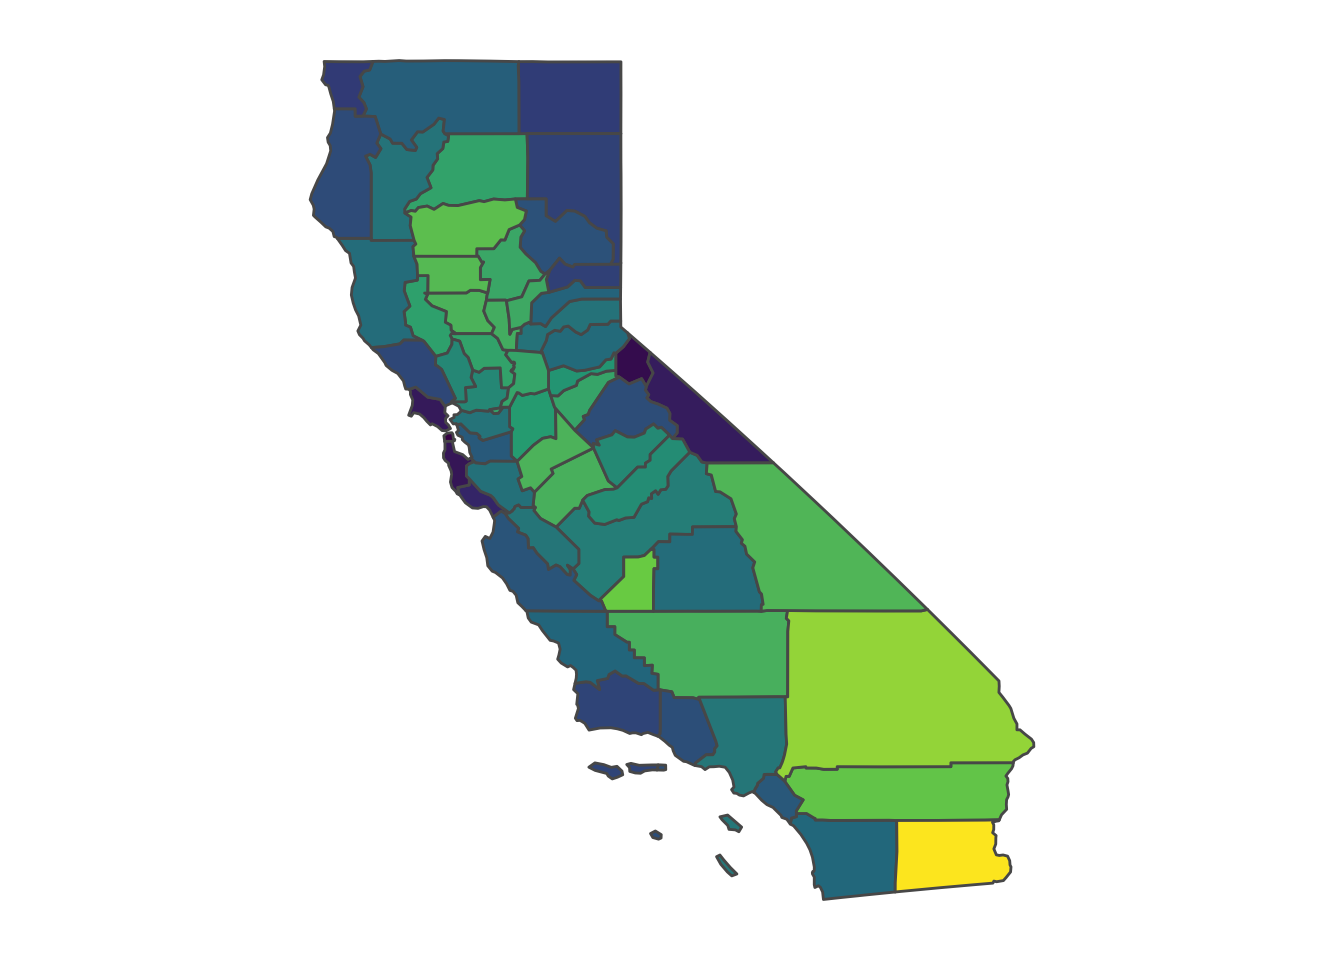
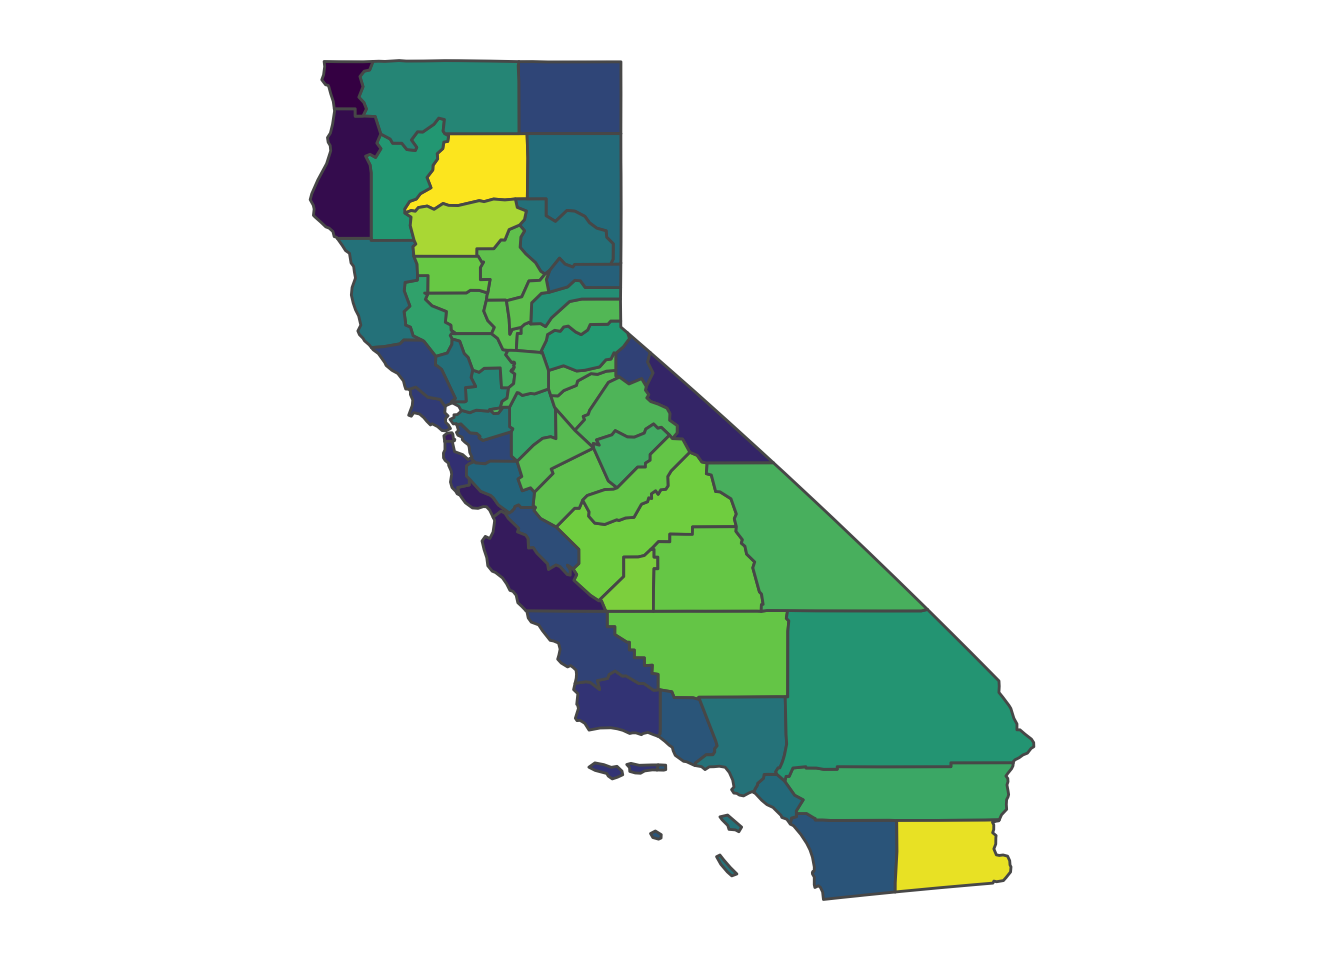
Blog updates

Changed region(s): [[0.2188, 0.0625, 0.7812, 0.875], [0.2812, 0.4062, 0.3438, 0.5]]

diff --git a/content/blog/2021-08-15-pop-weighted-weather.html b/content/blog/2021-08-15-pop-weighted-weather.html
@@ -1,5 +1,5 @@
 ---
-title: "Population-weighted weather, the Swayze way"
+title: "Pop-weighted averages from rasters"
 layout: post
 date: 2021-08-15
 categories: programming
@@ -10,11 +10,14 @@ tags:
 <script src="/rmarkdown-libs/header-attrs/header-attrs.js"></script>
 
 
-<p>Much of my work examines how the environment impacts people, often at a national scale. As a result, I often end up gratefully using weather data from the <a href="https://prism.nacse.org/">PRISM Climate Group</a> at Oregon State, who make rasters of daily and monthly weather data available for the entire United States. The basic idea behind the PRISM approach is that they interpolate weather station data in a sophisticated way that accounts for weather-relevant topographic features, e.g., elevation (details <a href="https://prism.nacse.org/documents/Daly2008_PhysiographicMapping_IntJnlClim.pdf">here</a> if that’s your thing). This is usally an improvement over more naive approaches that simply take some sort of distance-weighted average.</p>
-<p>So PRISM is really good for generating highly-resolved measurements of weather, and their datasets are packaged as a set of rasters, easy to incorporate into analyses in your statistical program of choice. Much of the time, this is sufficient: if I want to incorporate information on the weather into a particular area (say, a county), it’s often enough to just take an average over the raster cells that overlap that area.</p>
-<div id="why-weight-by-population" class="section level3">
-<h3>Why weight by population?</h3>
-<p>Imagine you’re looking down at the County of Los Angeles, much like Johnny Utah (played by Keanu Reeves) and Bodhi (played by Patrick Swayze, rest in peace) do as they parachute together in the 1991 classic <a href="https://www.imdb.com/title/tt0102685/">Point Break</a> (not to be confused with the far inferior 2015 remake).</p>
+<p>(Updated February 10, 2022 to incorporate <code>prism</code> package.)</p>
+<p>Much of my work examines how the environment impacts people, often at a national scale. As a result, I often end up using environmental data that is packaged as a raster (i.e., a bunch of grid cells laid over the earth) that I would like to match with adminstrative shapes (e.g., provinces or counties) that are packaged as polygons. Moreover, I often want to do that matching in a way that respects the distribution of population.</p>
+<p>To give a more specific example, I often end up (gratefully) using weather data from the <a href="https://prism.nacse.org/">PRISM Climate Group</a> at Oregon State, who make rasters of daily and monthly weather data available for the entire United States. The basic idea behind the PRISM approach is that they interpolate weather station data in a sophisticated way that accounts for weather-relevant topographic features, e.g., elevation (details <a href="https://prism.nacse.org/documents/Daly2008_PhysiographicMapping_IntJnlClim.pdf">here</a> if that’s your thing). This is usually an improvement over more naive approaches that simply take some sort of distance-weighted average.</p>
+<p>So PRISM is really good for generating highly-resolved measurements of weather, and their datasets are packaged as a set of rasters (in fact, there’s even an R <a href="https://github.com/ropensci/prism">package</a> that will help download and manage the PRISM data). This goal of this post is to provide an example for how to get from that raster data to <strong>population-weighted county averages</strong>, which you can then use in an analysis.</p>
+<div id="why-should-i-weight-by-population" class="section level3">
+<h3>Why should I weight by population?</h3>
+<p>To see why you should think about weighting by population, let’s take an example from the 1991 cult classic <a href="https://www.imdb.com/title/tt0102685/">Point Break</a>, which remains one of my favorite movies. If you haven’t seen it, Point Break is a movie about surfing, crime, and the meaning of life, and it stars Johnny Utah (played by Keanu Reeves) and Bodhi (played by Patrick Swayze, RIP).</p>
+<p>So, imagine you’re looking down at the County of Los Angeles, much as Johnny and Bodhi do as they parachute down on top of it.</p>
 <div class="figure">
 <img src="/img/point-break-skydiving.jpeg" alt="" />
 <p class="caption">Bodhi: “You’re about to jump out a perfectly good airplane, Johnny! How do you feel about that?”</p>
@@ -31,17 +34,22 @@ tags:
 CA_counties = tigris::counties(state = &quot;CA&quot;, cb = TRUE, resolution = &quot;20m&quot;)
 
 # Load PRISM raster
-# SOURCE: ftp://prism.nacse.org/daily/tmean/1991/PRISM_tmean_stable_4kmD2_19910712_bil.zip  
-weather_rast = raster(&quot;PRISM_tmean_stable_4kmD2_19910712_bil/PRISM_tmean_stable_4kmD2_19910712_bil.bil&quot;)
+prism_set_dl_dir(&quot;./&quot;)
+get_prism_dailys(type = &quot;tmean&quot;, minDate = &quot;1991-07-12&quot;, maxDate = &quot;1991-07-12&quot;, keepZip = F)
+weather_rast = prism_archive_ls()[1] %&gt;% pd_to_file %&gt;% raster
+# Note that the prism package has a bunch of convenience functions, 
+# but in this case we only need one raster
 
 # Load Population raster
-# SOURCE: https://sedac.ciesin.columbia.edu/data/set/usgrid-summary-file1-2000/data-download - Census 2000, population counts for continental US
-pop_rast = raster(&quot;usgrid_data_2000/geotiff/uspop00.tif&quot;)</code></pre>
+# SOURCE: https://sedac.ciesin.columbia.edu/data/set/usgrid-summary-file1-2000/data-download
+# Register/Log in, select Census 2000, population for CA, download and unzip
+pop_rast = raster(&quot;usgrid_data_2000/ascii/capop00.asc&quot;)</code></pre>
 </div>
 <div id="visualizing-the-rasters" class="section level3">
 <h3>Visualizing the rasters</h3>
 <p>Now that we have these loaded, let’s do some visualization of what we’re working with. We’ll focus on just Los Angeles County for now, since that will let us see the (fine) weather grid cells, as well as the even finer population rasters.</p>
-<pre class="r"><code>LA_county = CA_counties %&gt;% filter(NAME == &quot;Los Angeles&quot;)
+<pre class="r"><code># Select LA county
+LA_county = CA_counties %&gt;% filter(NAME == &quot;Los Angeles&quot;)
 
 # Crop both rasters to LA county and convert to a data.frames (just for plotting)
 weather_crop = crop(weather_rast, LA_county)
@@ -52,21 +60,21 @@ pop_df = as.data.frame(pop_crop, xy = TRUE)
 
 # Plot shapefile and raster boundaries
 ggplot(LA_county) + 
-  geom_sf() + 
-  geom_tile(data = weather_df, aes(x = x, y = y), fill = NA, colour = &quot;black&quot;, size = 0.05, alpha = 0.5) +  
-  geom_tile(data = pop_df, aes(x = x, y = y), fill = NA, colour = &quot;red&quot;, size = 0.05, alpha = 0.5) +  
-  theme_map()</code></pre>
+    geom_sf() + 
+    geom_tile(data = weather_df, aes(x = x, y = y), fill = NA, colour = &quot;black&quot;, size = 0.05, alpha = 0.5) +  
+    geom_tile(data = pop_df, aes(x = x, y = y), fill = NA, colour = &quot;red&quot;, size = 0.05, alpha = 0.5) +  
+    theme_map()</code></pre>
 <p><img src="/blog/2021-08-15-pop-weighted-weather_files/figure-html/visualize-rasters-1.png" width="672" /></p>
 <p>It’s a little hard to see what’s happening with the grid cells, so let’s zoom into a location at random, like <a href="https://neptunesnet.com/">Neptune Net</a>, the restaurant where Johnny Utah first approaches Tyler (played by Lori Petty) about learning to surf.</p>
 <pre class="r"><code>ggplot(LA_county) + 
-  geom_sf() + 
-  geom_tile(data = weather_df, aes(x = x, y = y), fill = NA, colour = &quot;black&quot;) +  
-  geom_tile(data = pop_df, aes(x = x, y = y), fill = NA, colour = alpha(&quot;red&quot;, 0.25), size = 0.5) +  
-  coord_sf(xlim = c(-118.96250491825595 - 0.1, -118.96250491825595 + 0.1),
-                  ylim = c(34.05315253542454 - 0.1, 34.05315253542454 + 0.1)) + 
-  theme_map()</code></pre>
+    geom_sf() + 
+    geom_tile(data = weather_df, aes(x = x, y = y), fill = NA, colour = &quot;black&quot;) +  
+    geom_tile(data = pop_df, aes(x = x, y = y), fill = NA, colour = alpha(&quot;red&quot;, 0.25), size = 0.5) +  
+    coord_sf(xlim = c(-118.96250491825595 - 0.1, -118.96250491825595 + 0.1),
+             ylim = c(34.05315253542454 - 0.1, 34.05315253542454 + 0.1)) + 
+    theme_map()</code></pre>
 <p><img src="/blog/2021-08-15-pop-weighted-weather_files/figure-html/zoom-1.png" width="672" /></p>
-<p>Zooming in on Neptune’s Net (“Johnny, gimme two!”) demonstrates a little issue: these rasters aren’t perfectly aligned, but they’ll need to be in order to use the population raster as weights when we compute average weather for the county. How can we deal with this? It’s easy: we can <strong>resample</strong> the population raster to match the weather raster.</p>
+<p>Zooming in on Neptune’s Net (“Johnny, gimme two!”) demonstrates a little issue: these rasters aren’t perfectly aligned, but they’ll need to be in order to use the population raster as weights when we compute average weather for the county. (Actually, <code>exactextractr</code> could deal with it on its own, but it’s not very good practice.) How can we deal with this? It’s easy: we can <strong>resample</strong> the population raster to match the weather raster.</p>
 </div>
 <div id="time-to-resample" class="section level3">
 <h3>Time to resample!</h3>
@@ -74,12 +82,12 @@ ggplot(LA_county) +
 pop_df2 = as.data.frame(pop_rs, xy = TRUE)
 
 ggplot(LA_county) + 
-  geom_sf() + 
-  geom_tile(data = weather_df, aes(x = x, y = y), fill = NA, colour = &quot;black&quot;) +  
-  geom_tile(data = pop_df2, aes(x = x, y = y), fill = NA, colour = alpha(&quot;red&quot;, 0.25), size = 0.5) +  
-  coord_sf(xlim = c(-118.96250491825595 - 0.1, -118.96250491825595 + 0.1),
-           ylim = c(34.05315253542454 - 0.1, 34.05315253542454 + 0.1)) + 
-  theme_map()</code></pre>
+    geom_sf() + 
+    geom_tile(data = weather_df, aes(x = x, y = y), fill = NA, colour = &quot;black&quot;) +  
+    geom_tile(data = pop_df2, aes(x = x, y = y), fill = NA, colour = alpha(&quot;red&quot;, 0.25), size = 0.5) +  
+    coord_sf(xlim = c(-118.96250491825595 - 0.1, -118.96250491825595 + 0.1),
+             ylim = c(34.05315253542454 - 0.1, 34.05315253542454 + 0.1)) + 
+    theme_map()</code></pre>
 <p><img src="/blog/2021-08-15-pop-weighted-weather_files/figure-html/resample-1.png" width="672" /></p>
 <p>Now that the rasters are aligned, we can move forward. “Little hand says it’s time to rock and roll.”</p>
 </div>
@@ -90,14 +98,15 @@ ggplot(LA_county) +
 # Compare to unweighted mean
 exact_extract(weather_crop, LA_county, fun = &quot;mean&quot;)
 
-# Now use uncropped rasters to generate pop-weighted averages for all CA counties
-CA_counties$tmean_averages = exact_extract(weather_rast, CA_counties, fun = &quot;mean&quot;)
+# Now use uncropped (and re-sampled) rasters to generate pop-weighted averages for all CA counties
+pop_rast_rs = raster::resample(pop_rast, weather_rast)
+CA_counties$tmean_averages = exact_extract(weather_rast, CA_counties, fun = &quot;weighted_mean&quot;, weights = pop_rast_rs)
 
 ggplot(CA_counties) + 
-  geom_sf(aes(fill = tmean_averages)) + 
-  scale_fill_viridis_c(name = NULL) + 
-  theme_map() +
-  theme(legend.position = &quot;none&quot;)</code></pre>
+    geom_sf(aes(fill = tmean_averages)) + 
+    scale_fill_viridis_c(name = NULL) + 
+    theme_map() +
+    theme(legend.position = &quot;none&quot;)</code></pre>
 <p><img src="/blog/2021-08-15-pop-weighted-weather_files/figure-html/compute-1.png" width="672" /></p>
 <p>And that’s it! Note that you can use <code>exact_extract</code> on other types of raster objects, like <code>RasterStack</code>s or <code>RasterBrick</code>s, which allow you to compute averages on more than one layer at once. Happy population-weighting, or in the immortal words of Bodhi…</p>
 <div class="figure">

diff --git a/content/blog/2022-02-09-productivity.html b/content/blog/2022-02-09-productivity.html
@@ -1,7 +1,7 @@
 ---
 title: "Productivity and the work habits that work (for me)"
 layout: post
-date: 2021-04-10
+date: 2022-02-09
 categories: productivity
 tags:
 - habits
@@ -11,8 +11,9 @@ tags:
 <script src="/rmarkdown-libs/header-attrs/header-attrs.js"></script>
 
 
+<p>(Original post April 10, 2021, updated February 9, 2022.)</p>
 <p>I used to think a lot about productivity. I still do, but I used to, too. (<a href="https://www.youtube.com/watch?v=VqHA5CIL0fg">RIP Mitch Hedberg</a>.)</p>
-<p>What is productivity? The boring economics-y definition is “rate of output per unit of input,” which is accurate but mostly unhelpful. A more human definition, and one I prefer, is “<strong>the quality of doing good work in a sustainable way</strong>.” So a productive week for me is one where I generate valuable pieces of work, like cleaned data, lesson plans, or manuscript sections (“doing good work”), while also staying happy and healthy by doing other non-work things that I love (“in a sustainable way”). Not all weeks feel that way, but over the years I’ve found that some behaviors are more likely to lead to productive weeks than others. And turning these good behaviors into <strong>habits</strong> has helped me get more done with less time and frustration than I did early in my career.</p>
+<p>What is productivity? The boring economics-y definition is “rate of output per unit of input,” which is accurate but mostly unhelpful. A more human definition, and one I prefer, is “<strong>doing good work in a sustainable way</strong>.” So a productive week for me is one where I generate valuable pieces of work, like cleaned data, lesson plans, or sections of a paper (“good work”) while also staying happy and healthy by doing other non-work things that I love (“in a sustainable way”). Not all weeks feel that way, but over the years I’ve found that some behaviors are more likely to lead to productive weeks than others. And turning these good behaviors into <strong>habits</strong> has helped me get more done with less time and frustration than I did early in my career.</p>
 <p>Developing those habits is what this post is about. In a previous and now slightly cringe-inducing <a href="/blog/2015-09-08-researchproductivity/">note</a>, I wrote about the kinds of practices and tools that I found useful for maintaining productivity as a grad student. In the five years since I wrote that, my thinking has continued to evolve. The following is a loose meander through that thinking.</p>
 <p>I’ll start with some necessary <strong>caveats</strong>, then discuss the <strong>principles</strong> that underpin my thoughts about productivity, list a few of my favorite <strong>habits</strong> (including some that are more specific to my job as a researcher), and link to some of the <strong>tools</strong> that I currently use. I’ll wrap up with a brief list of some <strong>resources</strong> that have helped me form these ideas.</p>
 <div id="caveats" class="section level2">
@@ -25,12 +26,12 @@ tags:
 </div>
 <div id="principles" class="section level2">
 <h2>Principles</h2>
-<p>I have a small number of principles I try keep in mind when I think about being productive.</p>
+<p>I have a few of principles I try keep in mind when I think about being productive.</p>
 <ol style="list-style-type: decimal">
-<li><strong>The goal is to get stuff done.</strong> This seems obvious, but it’s extremely easy to get distracted. If you’re a researcher like me, your “stuff” is writing good research papers and teaching well. To the extent that other tasks serve those goals you should pursue them, but don’t let the <strong>means</strong> become the <strong>end</strong>.</li>
+<li><strong>The goal is to get stuff done.</strong> This seems obvious, but it’s extremely easy to get distracted. We all have metrics that we use to determine if we’ve been successful. Some might be given to us externally, some we choose on our own. If you’re a researcher like me, your “stuff” is mainly writing good research papers and teaching well. To the extent that other tasks serve those goals you should pursue them, but don’t let the <strong>means</strong> become the <strong>end</strong>. A good litmus test here is to ask yourself: will I be happy a year from now that I accomplished this task? (Sending one more email does not typically not pass this test.)</li>
 <li><strong>Writing is thinking.</strong> Most people think that writing is simply transcribing ideas in your brain. It is not. Writing is a critical part of the creative process and is far more <strong>generative</strong> (in terms of leading to new ideas) than we realize. When you force yourself to write down something you will refine it, improve on it, and probably come up with something new entirely.</li>
 <li><strong>Don’t use your brain as a hard drive.</strong> Free your brain to do what it is best at: <strong>sparking ideas</strong>! Don’t use it to retain TODO lists, guidance for how to best code something, new projects that you want to start, your schedule for the week, long-term goals, or frankly anything that could easily be stored on a sheet of paper or computer. Make a note somewhere retrievable and let your brain move on to something else!</li>
-<li><strong>Future-proof everything.</strong> Consider the computer and the programs you’re using right now. Were you using that same computer and those same programs ten years ago? Even five years ago? I doubt it. I also doubt you’ll be using the same computer and programs five or ten years in the future. So future-proof whatever you can. That means: use systems that are easily backed up and recognize that you will probably change tools soon (if you’re like me, very likely within six months), so don’t overinvest in the ones you’re using now, and make sure that you’ll be able to get the data out of them easily.</li>
+<li><strong>Future-proof what you can.</strong> Consider the computer and the programs you’re using right now. Were you using that same computer and those same programs ten years ago? Even five years ago? I doubt it. I also doubt you’ll be using the same computer and programs five or ten years in the future. So future-proof whatever you can. That means: use systems that are easily backed up and recognize that you will probably change tools soon (if you’re like me, very likely within six months), so don’t overinvest in the ones you’re using now, and make sure that you’ll be able to get the data out of them easily.</li>
 </ol>
 </div>
 <div id="habits" class="section level2">
@@ -79,7 +80,7 @@ tags:
 </ul></li>
 <li><a href="https://www.r-project.org/">R</a>/<a href="https://www.rstudio.com/">RStudio</a> for almost all of my coding / analysis tasks. I used to use more Python and Stata, but R does almost everything I neeed now.</li>
 <li><a href="https://www.alfredapp.com/">Alfred</a> (OS X) to avoid hunting through my file structure. It’ll change your life.</li>
-<li><a href="https://roamresearch.com/">Roam Research</a>: Note-taking, personal task management. RR is not free, though, but right now I use it because it does the best job allowing me to quickly get ideas out of my brain and somewhere where I can find them later.</li>
+<li><a href="https://www.notion.so/">Notion</a>: Note-taking, personal task management. There are lots of tools like Notion: I previously used <a href="https://roamresearch.com/">Roam Research</a>, and before that <a href="https://bear.app/">Bear</a>, but they’re all mostly interchangeable. I just need something that allows me to quickly get ideas out of my brain and somewhere where I can find them later.</li>
 <li><a href="https://github.com/">Github</a> for project management, especially across a team. (I could write a whole post on how to use Github Issues for research.)</li>
 </ul>
 </div>

diff --git a/content/research.html b/content/research.html
@@ -10,10 +10,11 @@ slug: research
 <div id="working-papers-and-work-in-progress" class="section level2">
 <h2>Working papers and work in progress</h2>
 <ul>
+<li>Pollution Masks and The Demand for Clean Air: Experimental Evidence from Delhi (with Michael Greenstone, Kenneth Lee, and Harshil Sahai)</li>
 <li>Mandated vs. Voluntary Adaptation to Natural Disasters: The Case of U.S. Wildfires (with Judson Boomhower)
 <ul>
 <li><a href="https://www.nber.org/papers/w29621">NBER Working Paper</a> (December 2021)</li>
-<li>Selected media: <a href="https://www.nytimes.com/2022/01/26/us/wildfire-development-california-legal.html">New York Times</a> | <a href="https://megaphone.link/VMP8825632497">The Weeds</a> (starting @ 57 minutes) | <a href="https://www.marketwatch.com/story/enforcing-building-codes-in-california-helped-reduce-the-risk-of-structural-loss-in-a-wildfire-by-40-11641316060">Marketwatch</a></li>
+<li>Selected media: <a href="https://www.nytimes.com/2022/01/26/us/wildfire-development-california-legal.html">New York Times</a> | <a href="https://megaphone.link/VMP8825632497">The Weeds</a> (starting @ 57 minutes) | <a href="https://www.marketwatch.com/story/enforcing-building-codes-in-california-helped-reduce-the-risk-of-structural-loss-in-a-wildfire-by-40-11641316060">Marketwatch</a> | <a href="https://www.latimes.com/california/story/2022-01-28/california-wildfire-retrofits-rural-san-diego?_amp=true">LA Times</a></li>
 </ul></li>
 <li>Exposures and Behavioral Responses to Wildfire Smoke (with Marshall Burke, Sam Heft-Neal, Jessica Li, Anne Driscoll, Matthieu Stigler, Joakim Weill, Jennifer Burney, Jeff Wen, Marissa Childs, and Carlos Gould)
 <ul>
